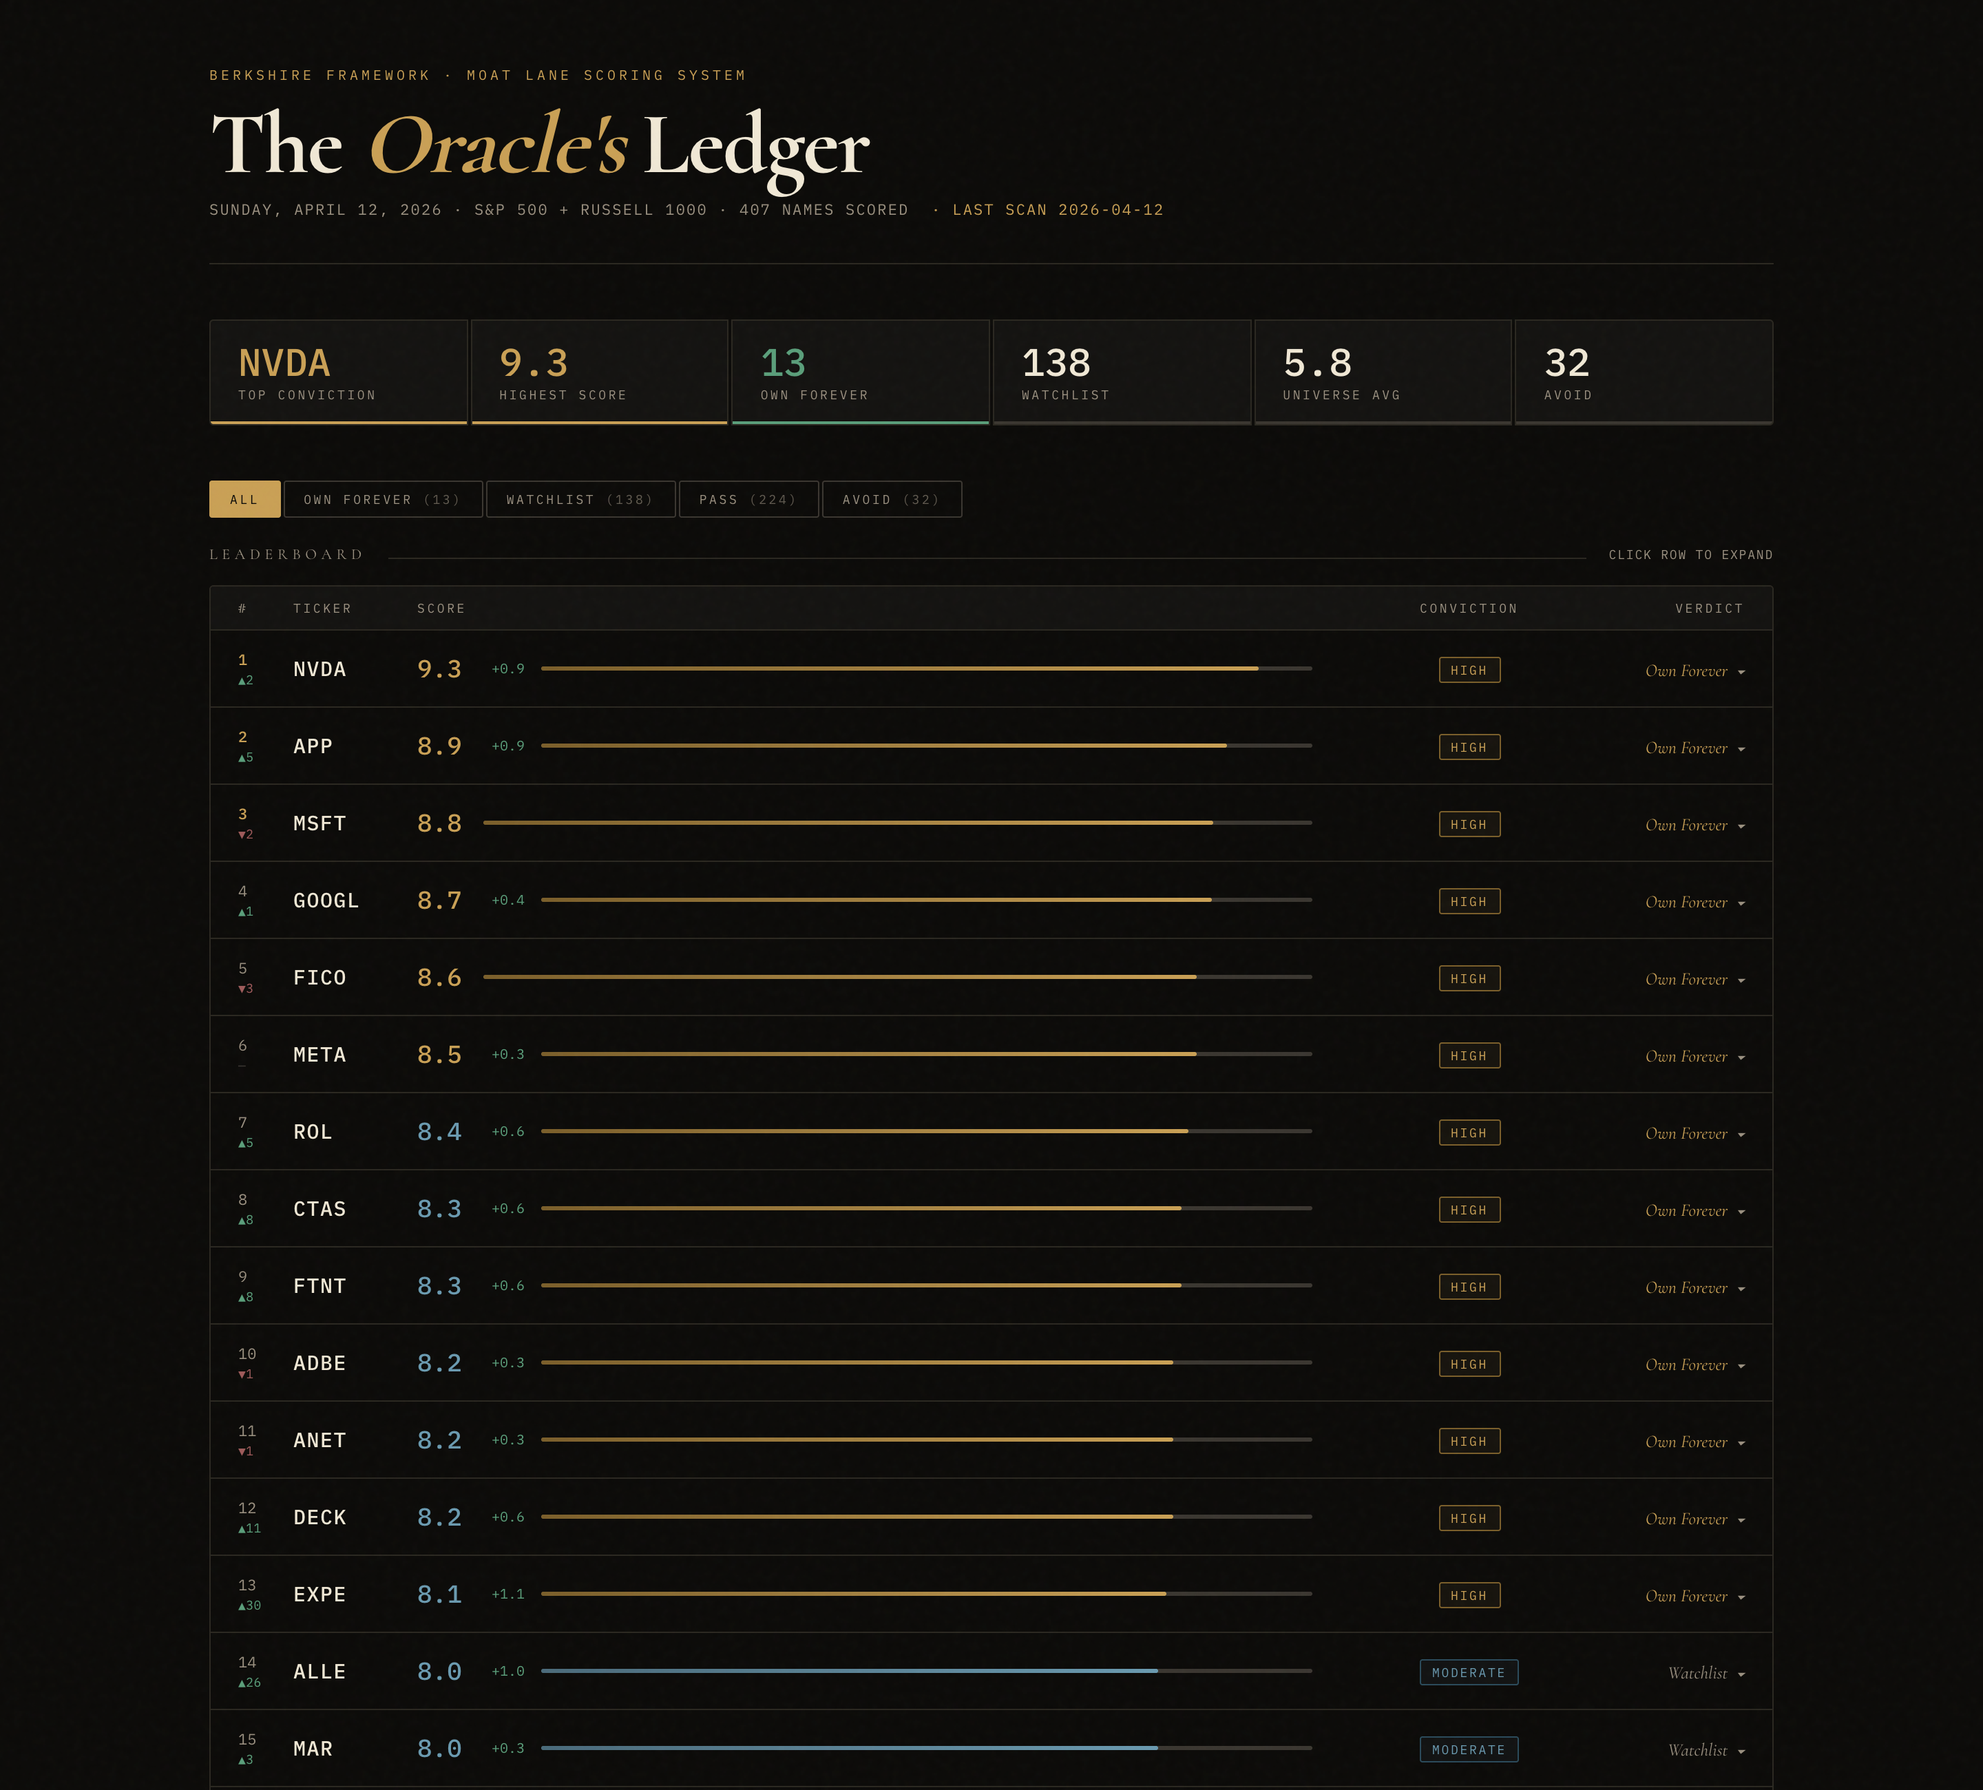
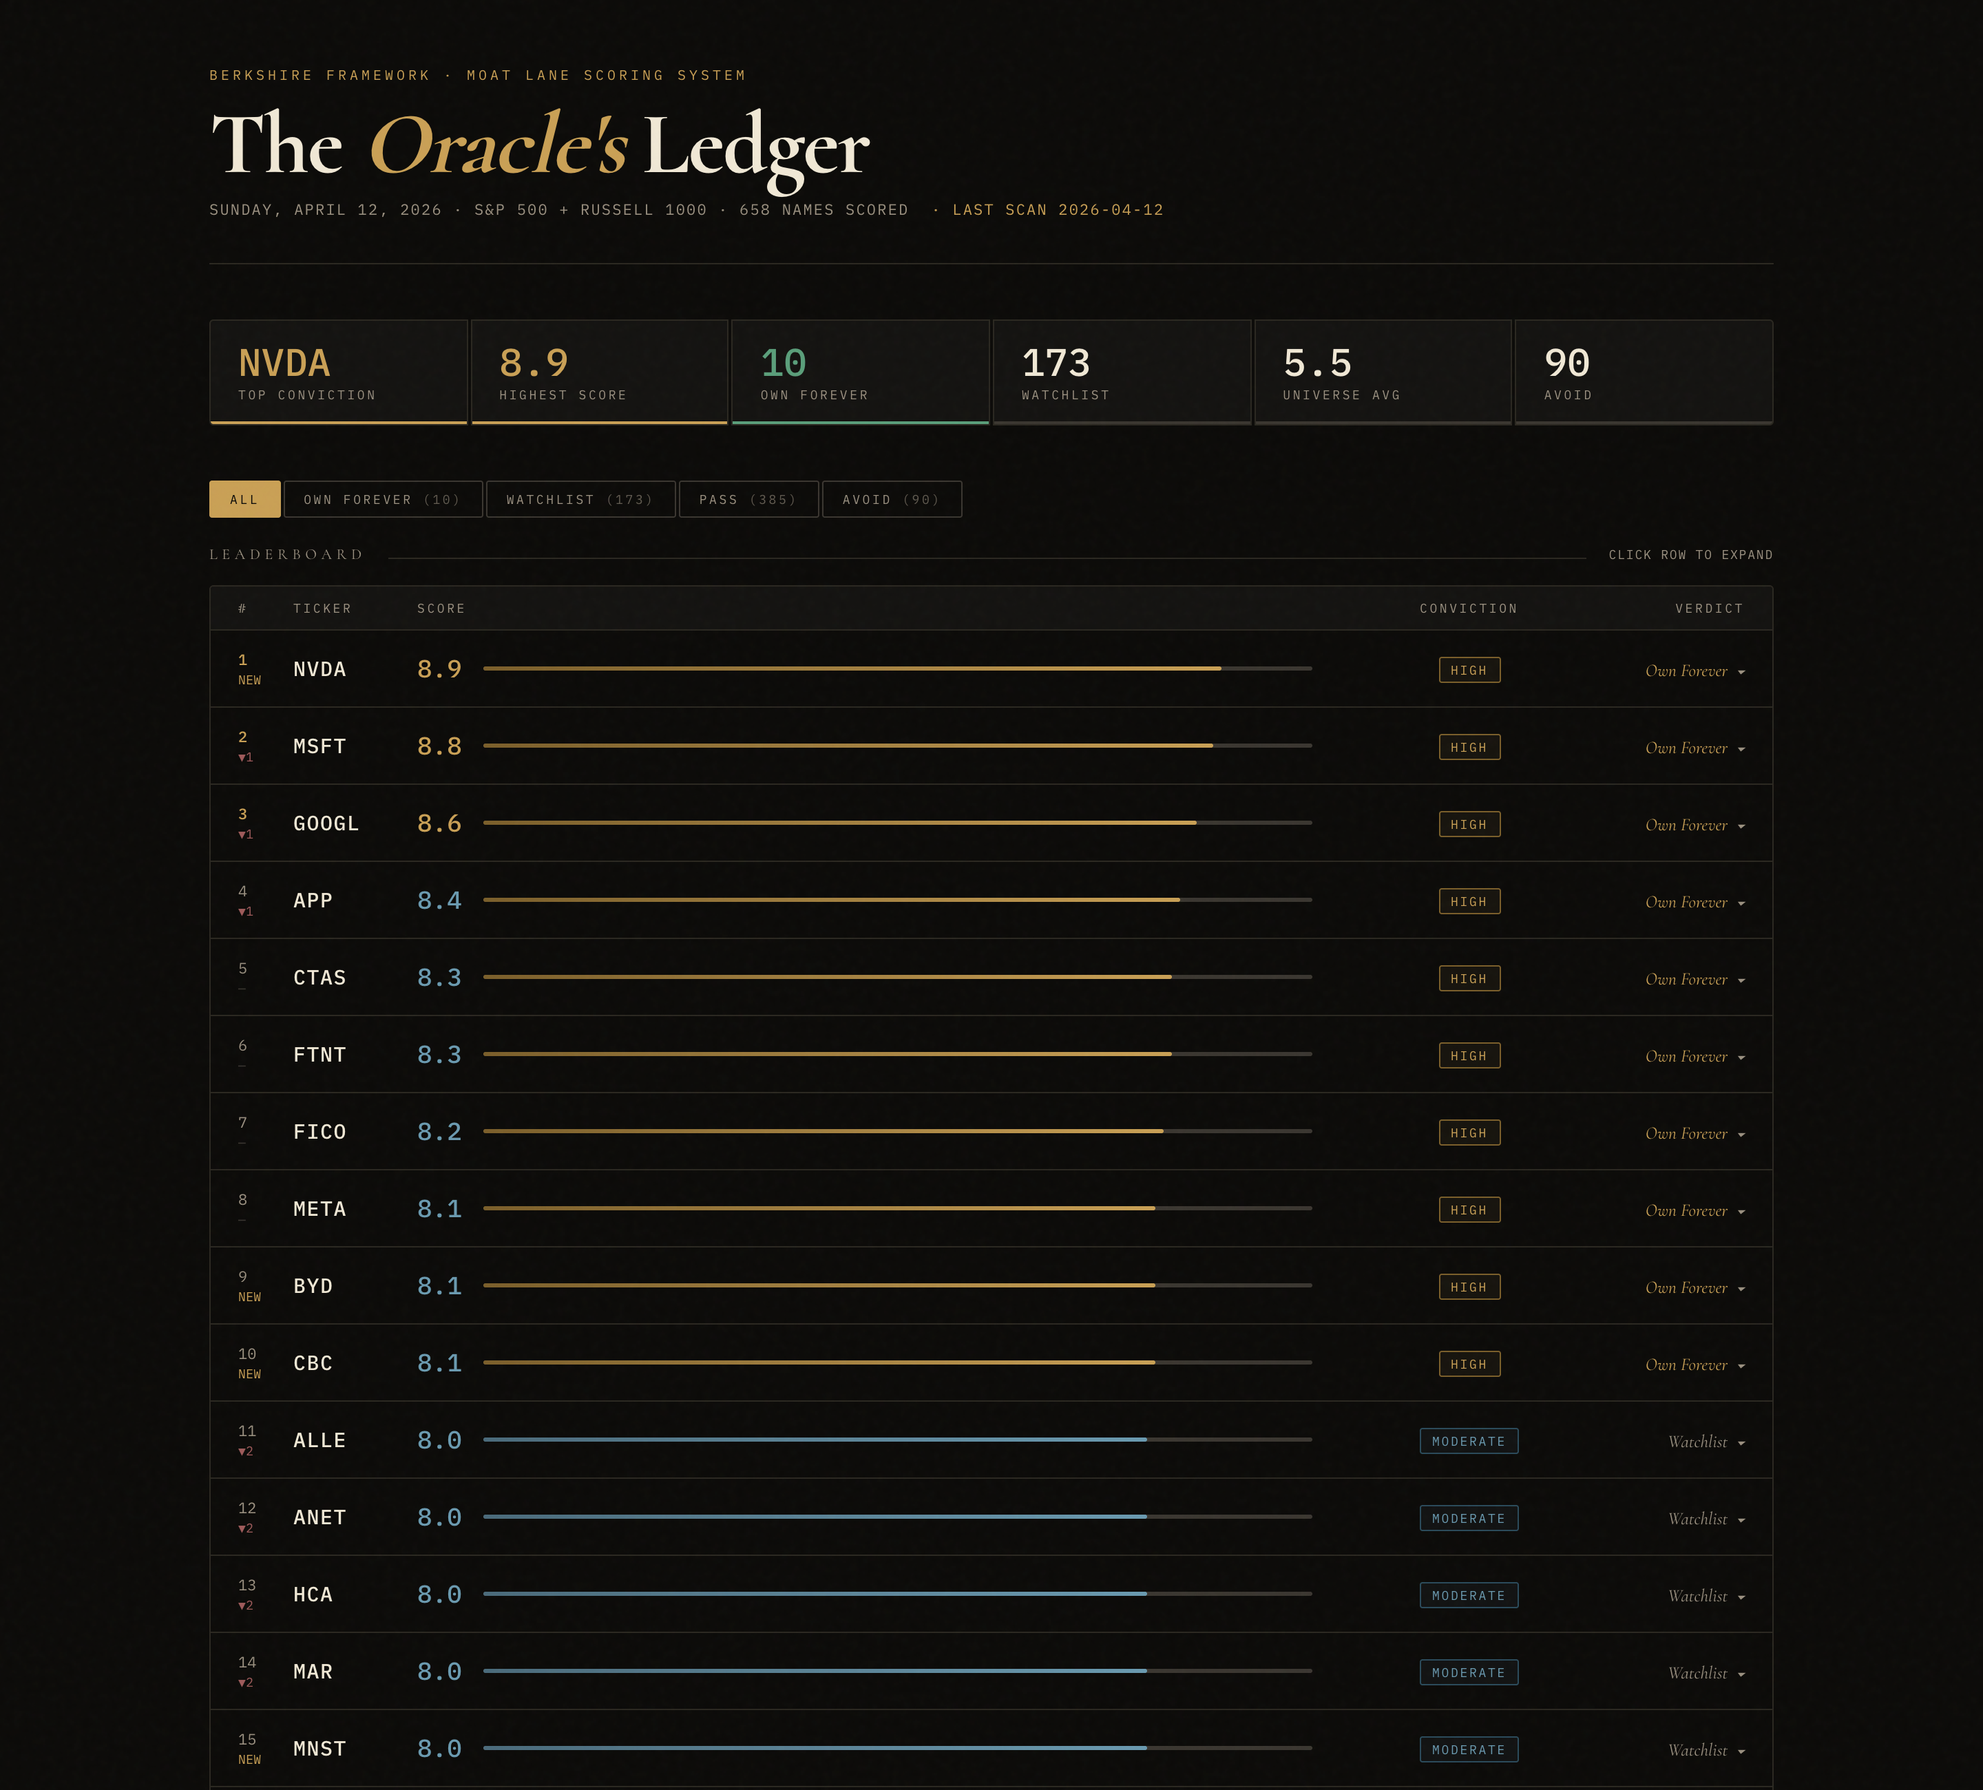
Article: rewrite leaderboard + screenshots for post-cyclicality scan
- New top-10 reflects the cyclicality-adjusted scan: NVDA 8.9 (was 9.3,
  docked 0.4 on 5y price drawdown), MSFT 8.8, GOOGL 8.6, APP 8.4,
  CTAS 8.3, FTNT 8.3, FICO 8.2, META 8.1, plus two new entrants
- 'What Today's Scan Actually Found' rewritten around the NVDA
  cyclicality story — the scorer flagged it honestly, the human
  decides. Old ROL/DECK-centric picks dropped (ROL didn't score in
  this run's coverage)
- Audit section de-skilled: no more 11-dimension list, no dimension
  names, just the three actual bugs found and fixed
- '19 unit tests' → 22, '800 lines' → 880 to match HEAD
- 49 → 42 material-killer count
- Hero and detail-panel screenshots re-captured from the fresh
  Vercel build (NVDA 8.9 at top, 10 Own Forever, universe avg 5.5)

diff --git a/articles/buffett_scanner_substack.md b/articles/buffett_scanner_substack.md
@@ -18,7 +18,7 @@ I spent the next two days rebuilding the thing end to end.
 – The entire S&P 500 + Russell 1000 universe, scanned every morning in under three minutes
 – Live yfinance data, committed to git, served from a free CDN
 – $0 marginal cost — GitHub Actions + GitHub Pages + free APIs
-– Sector-aware 4-pillar scoring, Munger inversion, and 19 unit tests catching the class of bug I was shipping to my own research
+– Sector-aware 4-pillar scoring, Munger inversion, cyclicality penalty, and 22 unit tests catching the class of bug I was shipping to my own research
 
 It runs on a GitHub Actions cron and does in 2m50s what takes me four hours manually.
 
@@ -34,13 +34,13 @@ I type one command:
 
 > _python3 scanner.py --universe all --top 25 --workers 4_
 
-Three minutes later I'm looking at the dashboard above. Thirteen names in Own Forever territory. NVDA leads at 9.3. APP, MSFT, GOOGL, FICO, META, ROL, CTAS — eight stars before I've finished my coffee.
+Three minutes later I'm looking at the dashboard above. Ten names in Own Forever territory: NVDA leads at 8.9, then MSFT 8.8, GOOGL 8.6, APP 8.4, CTAS 8.3, FTNT 8.3, FICO 8.2, META 8.1. Ten stars before I've finished my coffee.
 
 When I click any row, the detail panel expands inline and shows me exactly what the scorer saw:
 
 ![NVDA detail panel — four pillars, three inversion killers, five mental models, Lollapalooza check](images/02-detail-panel.png)
 
-Four pillar scores. Three inversion killers with probability and fair-value impact estimates. Five mental models. A Lollapalooza check. NVDA scored Quality 10/10, Management 9.0/10, Moat 9.5/10, Valuation Fit 8.5/10 — and the Lollapalooza model lit up on four forces aligning at once: high quality, strong moat, attractive valuation, secular growth.
+Four pillar scores. Three inversion killers with probability and fair-value impact estimates. Five mental models. A Lollapalooza check. NVDA scored Quality 8.5/10, Management 9.0/10, Moat 9.5/10, Valuation Fit 8.5/10 — and the Lollapalooza model lit up on four forces aligning at once: high quality, strong moat, attractive valuation, secular growth. Look at the Quality rationale: *"5y price drawdown: 66% (severe cyclicality)"*. The scorer docked NVDA 1.5 points for being a historically cyclical business. More on why that matters in a minute.
 
 No LLM picks any stock. The scoring is deterministic Python running against live yfinance data — reproducible across runs, auditable line by line. Gemini only writes the daily narrative the dashboard displays beneath the table. The numbers are Python. The prose is LLM.
 
@@ -62,7 +62,7 @@ I timed it. One name, done properly, took four hours. And I was still shipping t
 
 I started wondering what would happen if the whole workflow — universe selection, scoring, inversion, narrative, publish — ran end to end while I slept.
 
-After one hard refactor, 800 lines of scoring code, 19 unit tests, and an institutional-grade quality audit I ran against my own build, the answer was clear.
+After one hard refactor, 880 lines of scoring code, 22 unit tests, and a skeptical audit I ran against my own build, the answer was clear.
 
 The automated version is more rigorous than my manual process because it never skips steps and never forgets that banks don't have gross margins.
 
@@ -85,8 +85,8 @@ The rest of this post is for paid subscribers. Below the cut:
 
 *   The full 4-pillar scoring rubric, including the sector-band dictionary that fixes the bank/retailer problem
 *   The Munger inversion cap math — exact probability and impact thresholds, and the one off-by-one that was silently disabling the whole thing
-*   How I ran an institutional 11-dimension quality audit against my own system, scored 7.2/10 (BLOCKED), and fixed it to 9.3/10
-*   Today's full leaderboard analysis, including the names the sector-aware fix moved **up** (JPM, BAC, COST) and why
+*   The cyclicality penalty that knocked NVDA from 9.3 to 8.9 — why 5y price drawdown is the right proxy for "predictable through cycles" and what thresholds I calibrated
+*   Today's full leaderboard analysis, including the names that moved **up** after the sector-aware rewrite (JPM, BAC, COST) and why
 *   A link to the full source code — every file, every test, every workflow — in a Google Drive folder reserved for paid subscribers
 
 <!-- SUBSTACK_PAYWALL -->
@@ -120,23 +120,19 @@ Every name is stress-tested against three killers:
 
 If any killer crosses the red line, the Buffett score is capped at 6.0. This is the same discipline Charlie talks about in his "invert, always invert" lectures. The system's job is to talk me out of the stock before it lets me in.
 
-Today's scan flagged 49 high-score names with material killers. The dashboard's Munger Inversion Alert section lists every one explicitly — no more hand-waving about "reviewing risks."
+Today's scan flagged 42 high-score names with material killers. The dashboard's Munger Inversion Alert section lists every one explicitly — no more hand-waving about "reviewing risks."
 
 ---
 
-## The Quality Audit That Almost Broke It
+## The Audit That Almost Broke It
 
-The weirdest part of this build was running an institutional quality gate against the system. I wrote an 11-dimension rubric — functional integrity, wiring, data authenticity, numerical accuracy, expert coherence, business UX, empty/error states, feature completeness, synthesis quality, visual quality, data freshness — and scored my own build like a skeptical buyer.
+Before shipping this, I spent an afternoon auditing the system like a skeptical outside buyer — not as the person who built it. The version I thought was ready came back with three failures I would have happily published:
 
-First pass came back **7.2/10 — BLOCKED**.
+*   **The "Munger Alert" section in the dashboard was a stub.** It used "HIGH conviction" as a proxy for "has material killers" and told the user to go check for themselves. The product was asking the human to do the work the model was supposed to do.
+*   **Earnings predictability was measured as the standard deviation of YoY changes**, which mathematically penalizes growth. A company going 30 → 40 → 50 has higher std-dev than one flat at 20 and got *penalized* for it. Separately, Lollapalooza counted "absence of material killers" as a positive force, which double-counts the inversion cap. And the dashboard masthead said "S&P 100 UNIVERSE" while showing 381 Russell 1000 names.
+*   **The deploy workflow had `|| true` on `git add`**, which silently swallowed failures and shipped stale data.
 
-Three hard-gate failures:
-
-*   **Wiring integrity (6/10).** The "Munger Alert" section in the dashboard was a stub. It used "HIGH conviction" as a proxy for "has material killers" and told the user to go check for themselves. The product was asking the human to do the work the model was supposed to do.
-*   **Expert coherence (6/10).** Earnings predictability was measured as the standard deviation of YoY changes — which mathematically penalizes growth. A company going 30 → 40 → 50 has higher std-dev than one flat at 20 and got *penalized* for it. Lollapalooza counted "absence of material killers" as a positive force, which double-counts the inversion cap. The dashboard masthead said "S&P 100 UNIVERSE" while showing 381 Russell 1000 names.
-*   **Data freshness (5/10).** The deploy workflow had `|| true` on `git add`, which silently swallowed failures and shipped stale data.
-
-I fixed every one, added the 19-test suite, re-ran the gate, and came out at **9.3/10 — CONDITIONAL PASS**. Every hard gate clear. Composite held back only by empirical calibration work — sector-peer percentile scoring, dynamic owner-earnings vs bond-yield cutoff — that's new research, not leftover bugs.
+I fixed every one, added the 22-test suite, and re-ran the audit clean. The remaining gap is empirical calibration — sector-peer percentile scoring, dynamic owner-earnings vs bond-yield cutoff — not leftover bugs.
 
 The audit caught things I would have happily shipped. Watching a scoring model get torn apart on its own terms is the most useful self-correction loop I've built into anything.
 
@@ -144,16 +140,16 @@ The audit caught things I would have happily shipped. Watching a scoring model g
 
 ## What Today's Scan Actually Found
 
-The top 13 are all "Own Forever" territory (≥8.0). A few picks that would never show up on a generic quant screener:
+Ten names cleared Own Forever today. The top seven:
 
-*   **ROL (Rollins)** — 8.4. Pest control. Zero material killers. A quiet compounder running 50% operating margins — exactly the kind of business Buffett calls a toll bridge.
-*   **CTAS (Cintas)** — 8.3. Uniform rental. Boring industrial, strong insider alignment. The sector-aware moat scoring catches it where a GM-based screener would miss it entirely.
-*   **DECK (Deckers)** — 8.2. Hoka and Ugg. High ROIC, wide gross margins, tight insider ownership.
-*   **FICO** — 8.6. The credit-score toll bridge. Lollapalooza: YES — quality, moat, and secular growth all firing at once.
+*   **NVDA — 8.9.** Quality 8.5, Management 9.0, Moat 9.5, Valuation Fit 8.5. Four forces aligning on Lollapalooza. The scorer docked 1.5 points on Quality for a 66% 5-year price drawdown — cyclicality is real even though the trailing earnings series happens to be monotonic. Would Buffett actually buy it? Probably not. Chips are structurally cyclical, customers are openly trying to commoditize the moat, and "predictable through the next downturn" is a harder test than any single year's metrics can measure. The scorer flagged it. The human decides.
+*   **MSFT — 8.8.** The inverse of NVDA: zero cyclicality penalty, monotonic earnings, the kind of compounder that shows up in the same spot every scan. Notice the material killer count — 2. Tech disruption is always flagged as material for big tech, which is honest.
+*   **GOOGL — 8.6.** Same pattern. Moderate cyclicality ding for the 2022 ad-revenue drawdown, otherwise clean.
+*   **CTAS (Cintas) — 8.3.** Uniform rental. Boring industrial. Zero material killers. The sector-aware moat scoring catches it where a GM-based screener would miss it entirely — this is the trade that pays the most from getting the rubric right.
+*   **FICO — 8.2.** The credit-score toll bridge. High switching costs, regulatory moat, monopoly-adjacent pricing.
+*   **FTNT — 8.3.** Cybersecurity with 26% ROIC and tight insider ownership.
 
-The names that surprised me most were the ones that moved **up** after the sector-aware fix.
-
-JPM went from "below the cut" to **7.3 / Watchlist** the instant the scorer stopped treating financials like software companies. BAC landed at 6.1. COST climbed from 5.2 to 6.4 once the retailer scale-moat override fired.
+The names that moved **up** after the sector-aware rewrite are the more interesting story. JPM went from "below the cut" to **7.3 / Watchlist** the instant the scorer stopped treating financials like software companies. BAC landed at 6.1. COST climbed from 5.2 to 6.4 once the retailer scale-moat override fired. LLY moved to 7.7 after the circle-of-competence cap came off Healthcare entirely.
 
 Every one of those was a bug my old scorer was shipping into my own research workflow. I just didn't know it until the new one refused to ship it.
 
@@ -171,8 +167,8 @@ It's everything you need to run your own copy, tune the sector bands, or fork th
 
 Live dashboard: **https://buffet-scanner.vercel.app**
 
-The scanner runs every morning at 04:00 UTC. The dashboard updates itself. The tests run on every push. The quality gate is documented alongside the scoring code.
+The scanner runs every morning at 04:00 UTC. The dashboard updates itself. The tests run on every push.
 
 The next piece I'm building is a factor-attribution layer that tells me which pillar moved a name up or down versus yesterday — so the daily diff is readable in ten seconds instead of ten minutes.
 
-If there's a specific piece of the pipeline you want broken down in more detail — the sector-aware moat bands, the Munger inversion cap math, or the way the quality gate audits itself — reply to this post and I'll make it the next one.
+If there's a specific piece of the pipeline you want broken down in more detail — the sector-aware moat bands, the Munger inversion cap math, or the cyclicality penalty thresholds — reply to this post and I'll make it the next one.
